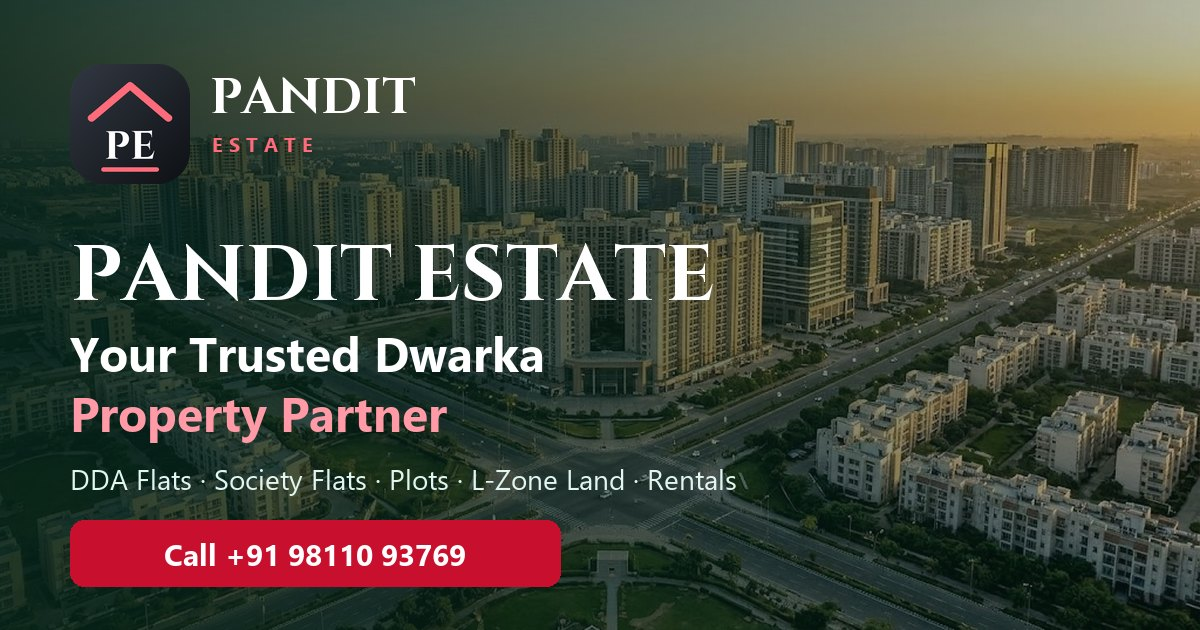
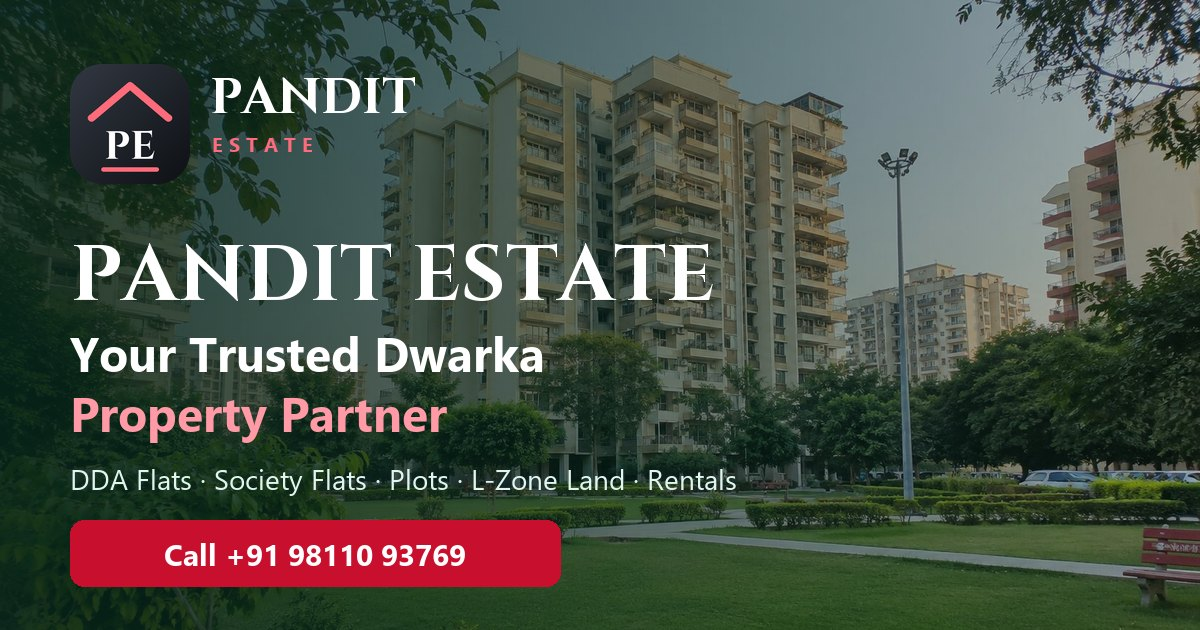
Add generated hero, service and blog photos
Optimised 20 images (hero 4, services 10, blog 6) from the website image
folder, stronger hero overlay for the bright photos, share image rebuilt
from hero-1. Originals stay out of git.

diff --git a/src/styles.css b/src/styles.css
@@ -525,3 +525,9 @@ body{background:#f8f8f6}
 .footer .soc.linkedin{background:#0a66c2}
 .footer .soc.whatsapp{background:#25d366}
 .footer .soc:hover{transform:translateY(-3px);filter:brightness(1.1)}
+
+/* photos are bright: keep the title area calm and readable */
+.hero-shade{background:linear-gradient(180deg,rgba(12,14,18,.55) 0%,rgba(12,14,18,.34) 40%,rgba(12,14,18,.34) 58%,rgba(12,14,18,.80) 100%)}
+.hero-in::before{background:radial-gradient(ellipse 74% 66% at 50% 40%,rgba(8,10,14,.5),rgba(8,10,14,.26) 58%,transparent 82%)}
+.h-mid{text-shadow:0 2px 3px rgba(0,0,0,.5),0 4px 22px rgba(0,0,0,.85)}
+.hero .hero-sub{text-shadow:0 1px 3px rgba(0,0,0,.7),0 4px 20px rgba(0,0,0,.8)}

diff --git a/scripts/make-assets.py b/scripts/make-assets.py
@@ -63,7 +63,7 @@ big.save(os.path.join(PUB, 'favicon.ico'), sizes=[(16, 16), (32, 32), (48, 48)])
 
 # Social share image 1200x630 built from the project's own skyline photo
 W, H = 1200, 630
-bg = Image.open(os.path.join(PUB, 'images', 'home tour', 'Skyline view.jpg')).convert('RGB')
+bg = Image.open(os.path.join(PUB, 'images', 'hero', 'hero-1.jpg')).convert('RGB')
 k = max(W / bg.width, H / bg.height)
 bg = bg.resize((int(bg.width * k), int(bg.height * k)), Image.LANCZOS)
 x0, y0 = (bg.width - W) // 2, (bg.height - H) // 2
